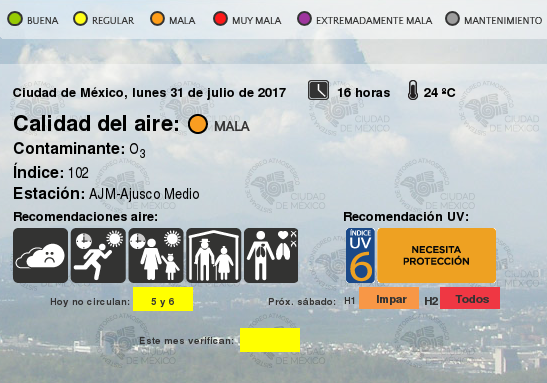
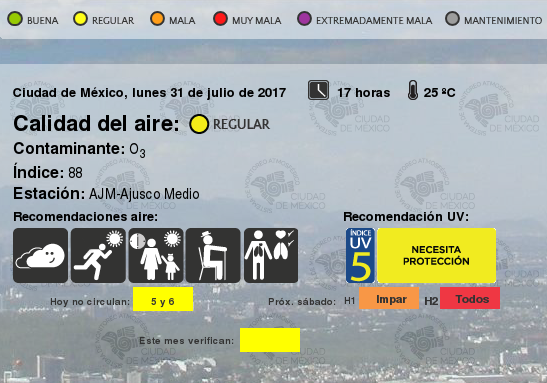
update images 31-07-2017 17:20

diff --git a/README.md b/README.md
@@ -10586,3 +10586,5 @@
 |31-07-2017 16:40
 |31-07-2017 16:50
 |31-07-2017 17:03
+|31-07-2017 17:11
+|31-07-2017 17:20
